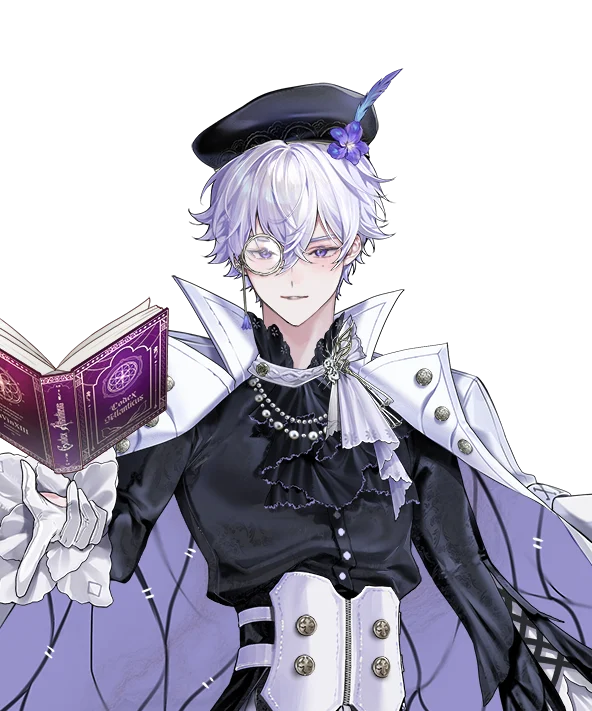
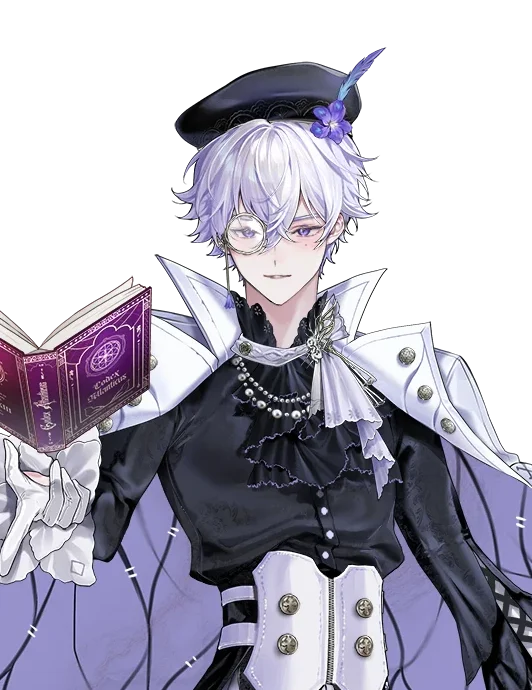
Slightly closer VinXIII half-body
Claude-Session: https://claude.ai/code/session_0182ETGqkY6VZC2ACV9rE9Mb

diff --git a/index.html b/index.html
@@ -953,7 +953,7 @@ var TALENTS = [
   { id:'riona', halves:['talent-riona-half.webp','talent-riona-2-half.webp'], card:'talent-riona-half.webp', img:'talent-riona.webp', face:'talent-riona-face.webp?v=7', forms:['talent-riona.webp','talent-riona-2.webp'],  name:'Riona', short:'Riona', ini:'RN', type:'VTuber', aff:{name:'Polygon', logo:'logos/polygon-mark.png'}, langs:['th','en'], color:'#FFE7C7', tags:['#Singing','#FreeTalk','#Gaming','#RolePlay'], works:['promo','review','collab','dub'], links:[['YouTube',16208,'https://www.youtube.com/@RionaPLG'],['TikTok',4081,'https://www.tiktok.com/@rionaplg'],['Facebook',10980,'https://www.facebook.com/RionaPolygon'],['X',4583,'https://x.com/RionaPLG']], quote:['เสือ สวย รวย และน่าน้วยก็ได้ ประธานนักเรียนรุ่นที่ 10 โรงเรียน PLG ริโอน่า สวัสดีค่ะ','A tiger: pretty, rich, and cuddly if you like. Hello, I am Riona, 10th student council president of PLG School!'] },
   { id:'anya', halves:['talent-anya-half.webp?v=2','talent-anya-2-half.webp'], card:'talent-anya-half.webp?v=2', img:'talent-anya.webp?v=2', face:'talent-anya-face.webp?v=7', forms:['talent-anya.webp?v=2','talent-anya-2.webp'],  name:'Anya', short:'Anya', ini:'AY', type:'VTuber', aff:{name:'Polygon', logo:'logos/polygon-mark.png'}, langs:['th'], color:'#DCEFE3', tags:['#Singing','#FreeTalk','#Gaming','#HandCam'], works:['promo','review','collab','dub'], links:[['YouTube',19635,'https://www.youtube.com/@AnyaPLG'],['TikTok',8095,'https://www.tiktok.com/@anyaplg'],['Facebook',7139,'https://www.facebook.com/AnyaPolygon'],['X',4071,'https://x.com/AnyaPLG']], quote:['ลึกแต่ไม่ลับ คับแต่ไม่แคบ ไม่ใช่แค่ช้าง แต่เป็นแมมมอธ แฮ่ !','Deep but no secrets, packed but never cramped. Not just an elephant, a mammoth. Rawr!'] },
   { id:'monace', halves:['talent-monace-half.webp?v=2'], card:'talent-monace-half.webp?v=2', img:'talent-monace.webp', face:'talent-monace-face.webp?v=7',  name:'Monace', short:'Monace', ini:'MN', type:'VTuber', aff:{name:'Polygon', logo:'logos/polygon-mark.png'}, langs:['th','en'], color:'#D9E4F5', tags:['#Singing','#FreeTalk','#Gaming','#SongComposer'], works:['promo','review','cover','collab','dub'], links:[['YouTube',2608,'https://www.youtube.com/@MONACEPLG'],['TikTok',1735,'https://www.tiktok.com/@monaceplg'],['Facebook',558,'https://www.facebook.com/MONACEPLG'],['X',1477,'https://x.com/MONACEPLG']], quote:['แรปเปอร์ตัวตึงอาจจะดูเท่ แต่ใจดี พร้อมอยู่ข้างๆ ให้คุณรู้สึกสบายใจเสมอ โซโล โมเนซ ครับ 🪽','A rapper who may look tough but has a kind heart, always by your side to put you at ease. Solo Monace here 🪽'] },
-  { id:'vinxiii', halves:['talent-vinxiii-half.webp'], card:'talent-vinxiii-half.webp', img:'talent-vinxiii.webp', face:'talent-vinxiii-face.webp?v=7',  name:'VinXIII', short:'VinXIII', ini:'VX', type:'VTuber', aff:{name:'Polygon', logo:'logos/polygon-mark.png'}, langs:['th'], color:'#F6E7C8', tags:['#Singing','#FreeTalk','#Gaming'], works:['promo','review','cover','collab'], links:[['YouTube',1715,'https://www.youtube.com/@VinXIIIPLG'],['TikTok',1187,'https://www.tiktok.com/@vinxiiiplg'],['Facebook',139,'https://www.facebook.com/VinXIIIPLG'],['X',2175,'https://x.com/VinXIIIPLG']], quote:['ถ้าตามหาคนที่จะทำให้หัวเราะได้ วินซี่ อยู่ตรงนี้เองครับ ที่ไม่ว่าอยู่ที่ไหนก็ทำให้บรรยากาศสดใสขึ้นทันที ⚜','Looking for someone to make you laugh? Vinzy is right here, brightening the room wherever he goes ⚜'] },
+  { id:'vinxiii', halves:['talent-vinxiii-half.webp?v=2'], card:'talent-vinxiii-half.webp?v=2', img:'talent-vinxiii.webp', face:'talent-vinxiii-face.webp?v=7',  name:'VinXIII', short:'VinXIII', ini:'VX', type:'VTuber', aff:{name:'Polygon', logo:'logos/polygon-mark.png'}, langs:['th'], color:'#F6E7C8', tags:['#Singing','#FreeTalk','#Gaming'], works:['promo','review','cover','collab'], links:[['YouTube',1715,'https://www.youtube.com/@VinXIIIPLG'],['TikTok',1187,'https://www.tiktok.com/@vinxiiiplg'],['Facebook',139,'https://www.facebook.com/VinXIIIPLG'],['X',2175,'https://x.com/VinXIIIPLG']], quote:['ถ้าตามหาคนที่จะทำให้หัวเราะได้ วินซี่ อยู่ตรงนี้เองครับ ที่ไม่ว่าอยู่ที่ไหนก็ทำให้บรรยากาศสดใสขึ้นทันที ⚜','Looking for someone to make you laugh? Vinzy is right here, brightening the room wherever he goes ⚜'] },
   { id:'augustine', halves:['talent-augustine-half.webp'], card:'talent-augustine-half.webp', img:'talent-augustine.webp', face:'talent-augustine-face.webp?v=7',  name:'Augustine', short:'Augustine', ini:'AG', type:'VTuber', aff:{name:'Polygon', logo:'logos/polygon-mark.png'}, langs:['th','en'], color:'#E3F0FA', tags:['#Singing','#FreeTalk','#Gaming','#Dentist'], works:['promo','review','cover','collab'], links:[['YouTube',10500,'https://www.youtube.com/@AugustinePLG'],['TikTok',37200,'https://www.tiktok.com/@augustineplg'],['Facebook',770,'https://www.facebook.com/AugustinePLG'],['X',4178,'https://x.com/AugustinePLG']], quote:['ออกัสทีนเองครับ มีทั้งความสวย ความหล่อ และพลังบวกที่จะทำให้คุณยิ้มได้ทุกวัน อยากมาลองชิมมั้ยครับ','Augustine here: pretty, handsome and full of good vibes to make you smile every day. Care for a taste?'] },
 ];
 var ART = [
